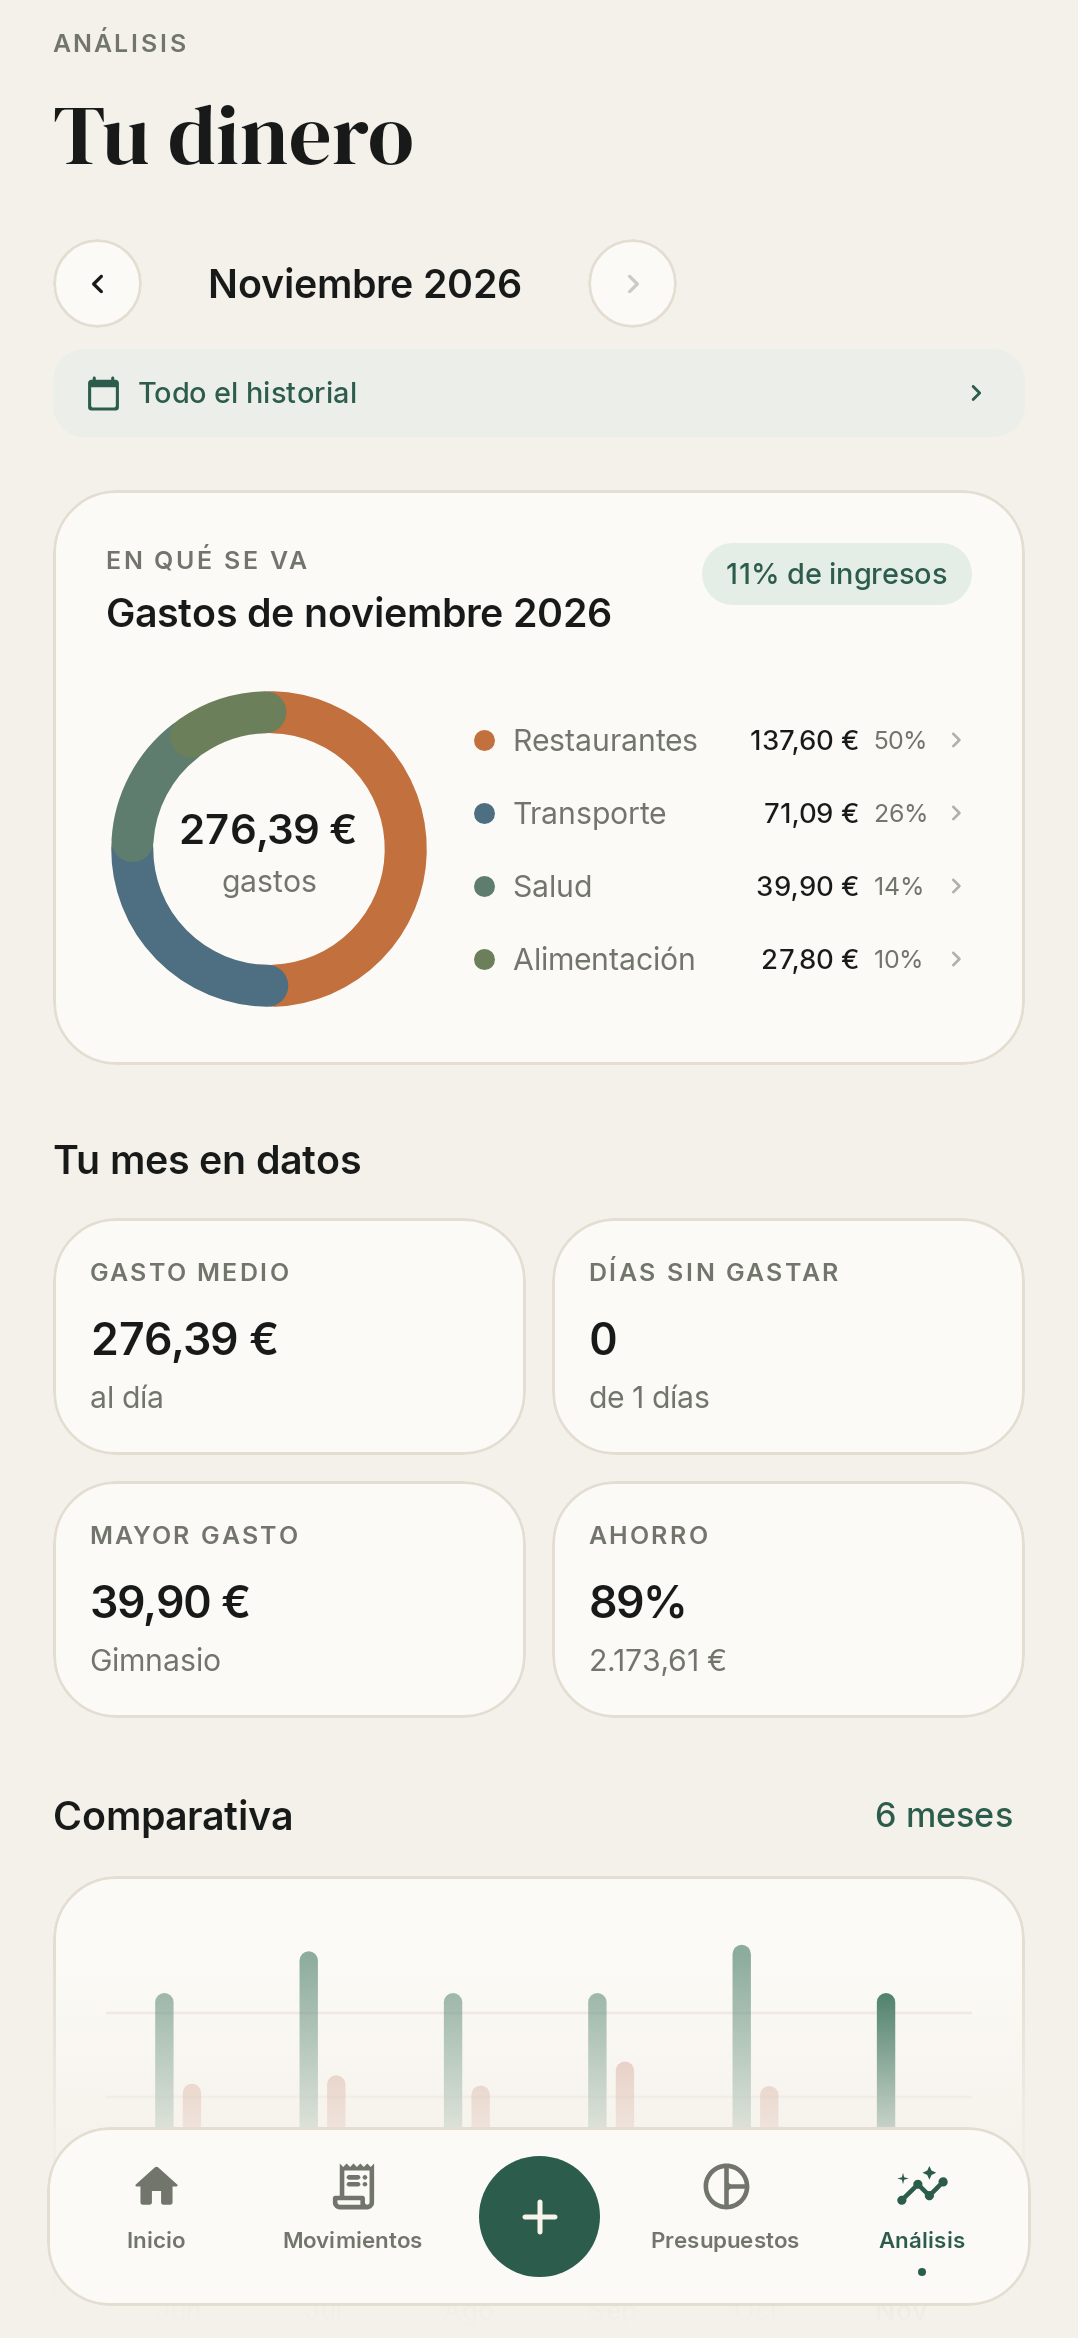
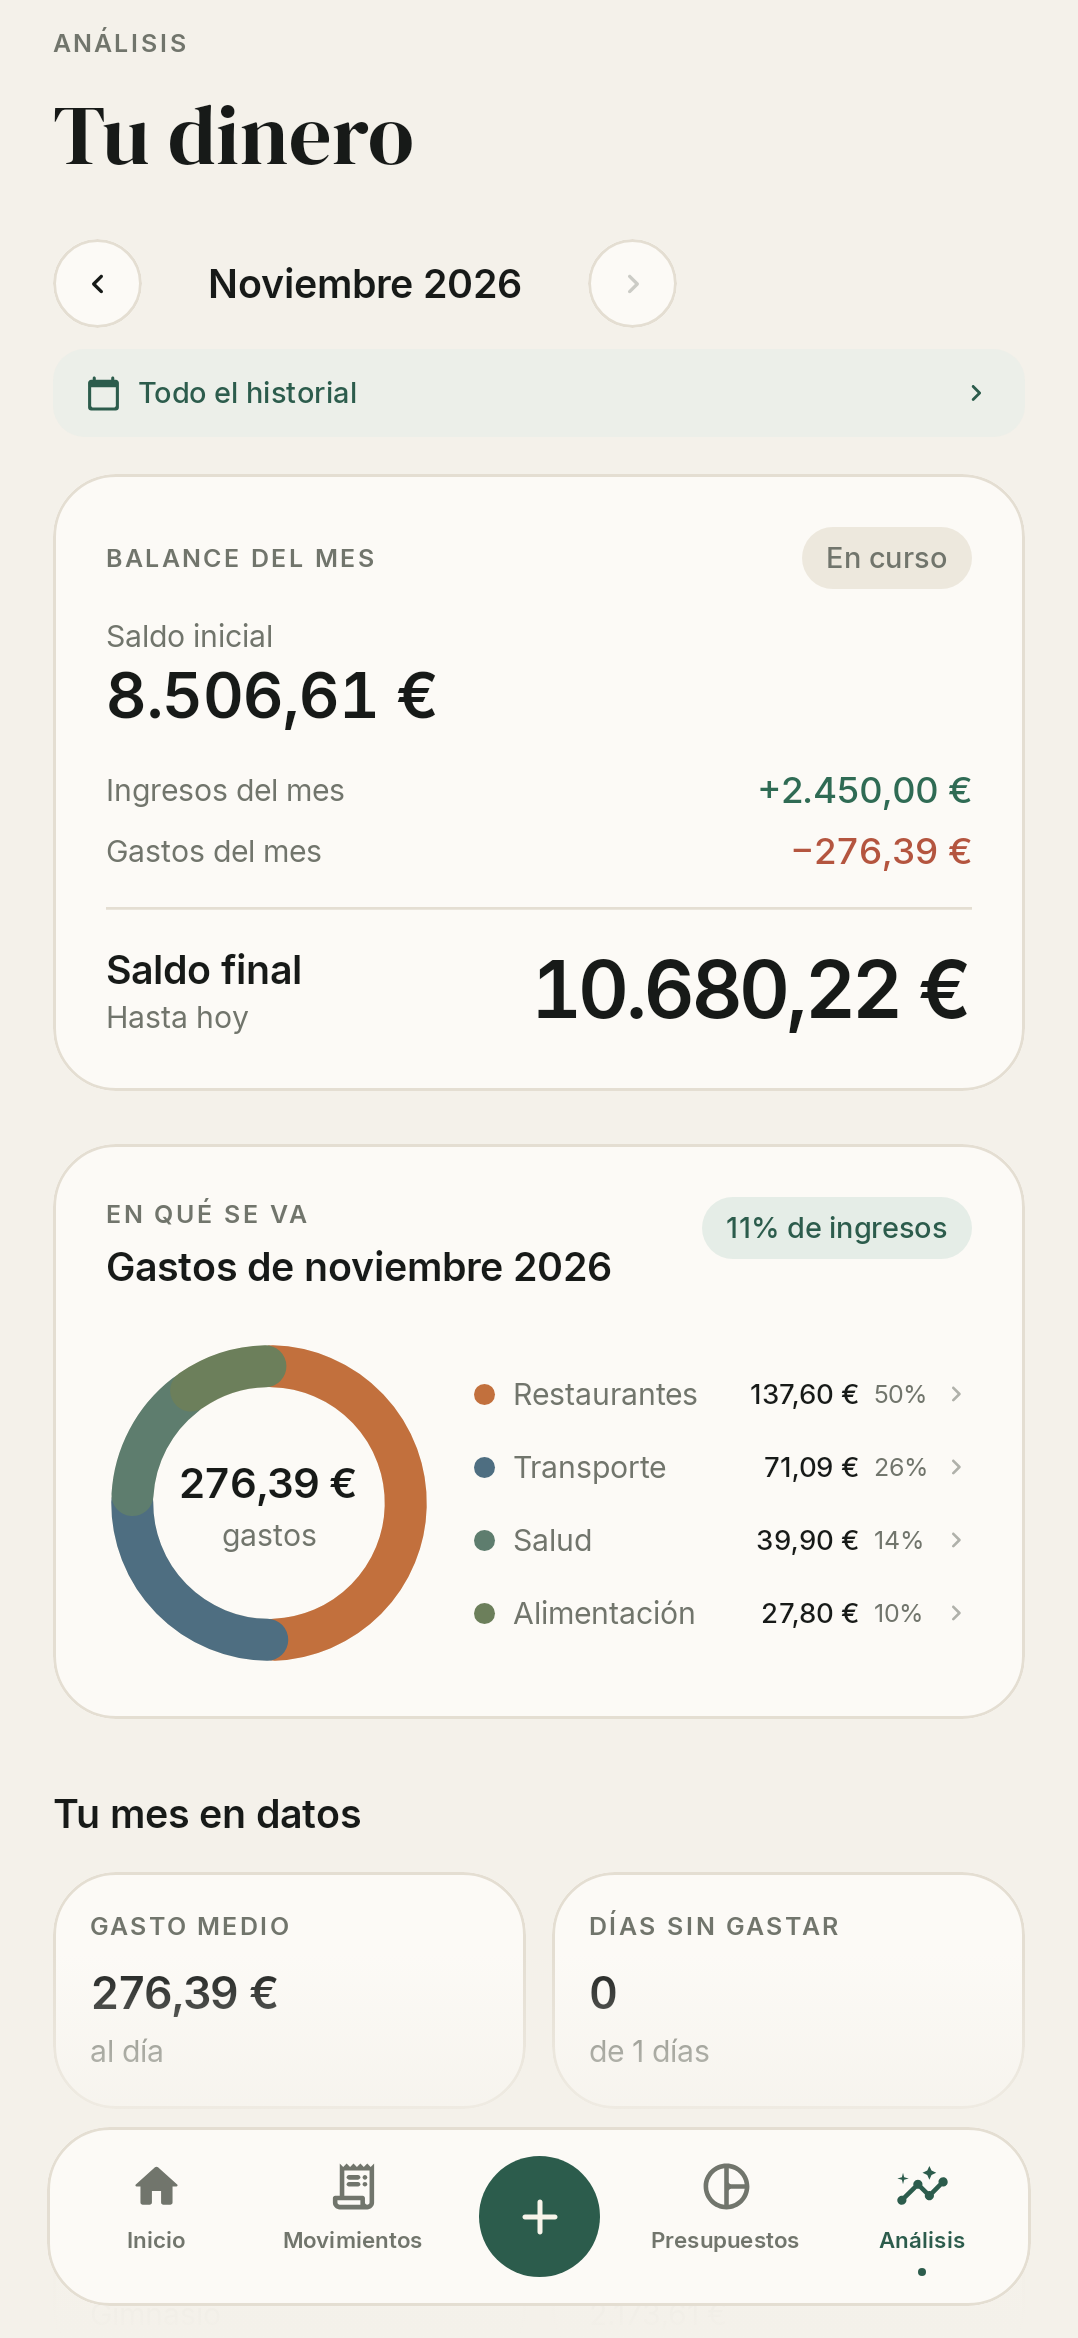
v0.5.1: balance inicial y final del mes en Analisis

diff --git a/app/src/main/java/com/budjet/app/ui/screens/AnalysisScreen.kt b/app/src/main/java/com/budjet/app/ui/screens/AnalysisScreen.kt
@@ -98,6 +98,11 @@ fun AnalysisScreen(
     }
     val futureCount = monthTx.size - postedTx.size
     val totals = remember(postedTx) { Finance.totals(postedTx) }
+    val monthTotalsFull = remember(data.transactions, month) {
+        Finance.totals(Finance.postedTransactionsOfMonth(data, month, today))
+    }
+    val initialBalance = remember(data, month) { Finance.initialBalance(data, month) }
+    val finalBalance = remember(data, month, today) { Finance.finalBalance(data, month, today) }
     val spends = remember(scopedData, month) { Finance.spendByCategory(scopedData, month) }
     val series = remember(scopedData, month) { Finance.series(scopedData, month, 6) }
     val average = remember(scopedData, month) { Finance.monthlyAverageExpense(scopedData, month, 3) }
@@ -185,6 +190,17 @@ fun AnalysisScreen(
                     modifier = Modifier.size(13.dp),
                 )
             }
+            Spacer(Modifier.height(14.dp))
+            MonthBalanceCard(
+                initial = initialBalance,
+                income = monthTotalsFull.income,
+                expense = monthTotalsFull.expense,
+                final = finalBalance,
+                month = month,
+                today = today,
+                currency = currency,
+                filterActive = startDate != null,
+            )
             Spacer(Modifier.height(20.dp))
         }
 
@@ -446,6 +462,125 @@ fun AnalysisScreen(
         ) {
             DatePicker(state = state, showModeToggle = false)
         }
+    }
+}
+
+@Composable
+private fun MonthBalanceCard(
+    initial: Long,
+    income: Long,
+    expense: Long,
+    final: Long,
+    month: YearMonth,
+    today: LocalDate,
+    currency: Currency,
+    filterActive: Boolean,
+) {
+    val colors = BudTheme.colors
+    val current = month == YearMonth.from(today)
+    BudCard {
+        Row(
+            modifier = Modifier.fillMaxWidth(),
+            horizontalArrangement = Arrangement.SpaceBetween,
+            verticalAlignment = Alignment.CenterVertically,
+        ) {
+            Overline("BALANCE DEL MES")
+            Pill(
+                text = if (current) "En curso" else "Cerrado",
+                container = colors.surfaceMuted,
+                content = colors.inkMuted,
+            )
+        }
+        Spacer(Modifier.height(10.dp))
+        Text(
+            text = "Saldo inicial",
+            style = MaterialTheme.typography.bodySmall,
+            color = colors.inkMuted,
+        )
+        Text(
+            text = formatMoney(initial, currency),
+            style = BudTheme.type.moneyMedium.copy(fontSize = 24.sp),
+            color = colors.ink,
+            maxLines = 1,
+        )
+        Spacer(Modifier.height(12.dp))
+        BalanceFlowRow(
+            label = "Ingresos del mes",
+            prefix = "+",
+            value = income,
+            color = colors.income,
+            currency = currency,
+        )
+        Spacer(Modifier.height(5.dp))
+        BalanceFlowRow(
+            label = "Gastos del mes",
+            prefix = "−",
+            value = expense,
+            color = colors.expense,
+            currency = currency,
+        )
+        Spacer(Modifier.height(12.dp))
+        androidx.compose.material3.HorizontalDivider(color = colors.line)
+        Spacer(Modifier.height(12.dp))
+        Row(
+            modifier = Modifier.fillMaxWidth(),
+            horizontalArrangement = Arrangement.SpaceBetween,
+            verticalAlignment = Alignment.Bottom,
+        ) {
+            Column {
+                Text(
+                    text = "Saldo final",
+                    style = MaterialTheme.typography.titleMedium,
+                    color = colors.ink,
+                )
+                Text(
+                    text = if (current) "Hasta hoy" else "Cierre del mes",
+                    style = MaterialTheme.typography.bodySmall,
+                    color = colors.inkMuted,
+                )
+            }
+            Text(
+                text = formatMoney(final, currency),
+                style = BudTheme.type.moneyLarge,
+                color = colors.ink,
+                maxLines = 1,
+            )
+        }
+        if (filterActive) {
+            Spacer(Modifier.height(10.dp))
+            Text(
+                text = "El saldo se calcula con todo el historial, no con el filtro de fechas.",
+                style = MaterialTheme.typography.bodySmall,
+                color = colors.inkMuted,
+            )
+        }
+    }
+}
+
+@Composable
+private fun BalanceFlowRow(
+    label: String,
+    prefix: String,
+    value: Long,
+    color: Color,
+    currency: Currency,
+) {
+    Row(
+        modifier = Modifier.fillMaxWidth(),
+        horizontalArrangement = Arrangement.SpaceBetween,
+        verticalAlignment = Alignment.CenterVertically,
+    ) {
+        Text(
+            text = label,
+            style = MaterialTheme.typography.bodySmall,
+            color = BudTheme.colors.inkMuted,
+        )
+        Text(
+            text = prefix + formatMoney(value, currency),
+            style = BudTheme.type.moneySmall,
+            color = color,
+            maxLines = 1,
+        )
     }
 }
 

diff --git a/app/src/test/java/com/budjet/app/FinanceTest.kt b/app/src/test/java/com/budjet/app/FinanceTest.kt
@@ -134,6 +134,37 @@ class FinanceTest {
     }
 
     @Test
+    fun `the month starts with what was left at the end of the previous month`() {
+        val november = YearMonth.of(2026, 11)
+        val app = data(
+            listOf(
+                tx("salary", 2_450_00, TxType.INCOME, LocalDate.of(2026, 10, 31)),
+                tx("rent", 850_00, TxType.EXPENSE, LocalDate.of(2026, 11, 2)),
+            ),
+        )
+        // Opening 1.000 € + salary on 31 Oct = 3.450 € carried into November.
+        assertEquals(3_450_00L, Finance.initialBalance(app, november))
+        assertEquals(2_600_00L, Finance.finalBalance(app, november, LocalDate.of(2026, 11, 30)))
+    }
+
+    @Test
+    fun `month balance is initial plus income minus expenses`() {
+        val november = YearMonth.of(2026, 11)
+        val today = LocalDate.of(2026, 11, 30)
+        val app = data(
+            listOf(
+                tx("1", 2_450_00, TxType.INCOME, LocalDate.of(2026, 10, 31)),
+                tx("2", 500_00, TxType.INCOME, LocalDate.of(2026, 11, 10)),
+                tx("3", 300_00, TxType.EXPENSE, LocalDate.of(2026, 11, 12)),
+            ),
+        )
+        val initial = Finance.initialBalance(app, november)
+        val monthTotals = Finance.totals(Finance.postedTransactionsOfMonth(app, november, today))
+        val final = Finance.finalBalance(app, november, today)
+        assertEquals(initial + monthTotals.income - monthTotals.expense, final)
+    }
+
+    @Test
     fun `savings rate is balance over income`() {
         val totals = Finance.totals(
             listOf(

diff --git a/app/src/main/java/com/budjet/app/data/Finance.kt b/app/src/main/java/com/budjet/app/data/Finance.kt
@@ -79,6 +79,16 @@ object Finance {
         }
     }
 
+    /** Money available at the start of [month], including anything earned the previous month. */
+    fun initialBalance(data: AppData, month: YearMonth): Long =
+        balanceAt(data, month.atDay(1).minusDays(1))
+
+    /** Closing balance for [month]; the current month stops at today so future entries do not count. */
+    fun finalBalance(data: AppData, month: YearMonth, today: LocalDate = LocalDate.now()): Long {
+        val end = month.atEndOfMonth()
+        return balanceAt(data, if (end.isAfter(today)) today else end)
+    }
+
     fun series(
         data: AppData,
         anchor: YearMonth,

diff --git a/app/src/main/java/com/budjet/app/ui/screens/SettingsScreen.kt b/app/src/main/java/com/budjet/app/ui/screens/SettingsScreen.kt
@@ -503,7 +503,7 @@ fun SettingsScreen(
                         }
                         Spacer(Modifier.height(4.dp))
                         Text(
-                            text = "Un lugar tranquilo para tu dinero. Versión 0.5.0 · boceto.",
+                            text = "Un lugar tranquilo para tu dinero. Versión 0.5.1 · boceto.",
                             style = MaterialTheme.typography.bodySmall,
                             color = colors.inkMuted,
                         )

diff --git a/README.md b/README.md
@@ -2,7 +2,7 @@
 
 Aplicación Android para llevar el control de tus gastos, ingresos, presupuestos y objetivos de ahorro. Diseño sobrio, cálido y editorial, con tres gamas de color.
 
-> Estado: **boceto funcional v0.5.0**. Datos locales, copia de seguridad, desbloqueo biométrico, saldo inicial editable, movimientos programados y análisis con rango histórico.
+> Estado: **boceto funcional v0.5.1**. Datos locales, copia de seguridad, desbloqueo biométrico, saldo inicial editable, movimientos programados y análisis con balance inicial del mes.
 
 | Resumen | Objetivos | Movimientos |
 |---|---|---|
@@ -45,6 +45,7 @@ Las categorías conservan sus colores en las tres gamas para no perder identidad
 - **Movimientos** — historial agrupado por día, filtros, búsqueda, edición y borrado con deshacer. Al buscar, el resumen de ingresos/gastos/balance se recalcula solo con los resultados.
 - **Presupuestos** — límite mensual general y por categoría, con ritmo de gasto diario.
 - **Análisis** — desglose por categorías, comparativa de 6 meses, estadísticas e ideas automáticas. Puedes fijar **desde qué fecha** empieza a contar el histórico.
+- **Balance del mes** — cada mes arranca con el saldo real del cierre anterior (aunque la nómina llegue el último día), suma ingresos, resta gastos y muestra el saldo final.
 - **Detalle de categoría** — toca un segmento del donut o su leyenda para ver la evolución, las métricas y los movimientos de esa categoría.
 - **Objetivos de ahorro** — metas, aportaciones/retiradas, progreso y sugerencia mensual. Es una “hucha virtual”.
 - **Movimientos recurrentes** — nómina, alquiler o suscripciones mensuales; se apuntan solos al abrir la app, se pueden pausar y editar.
@@ -81,7 +82,7 @@ Requiere JDK 17+ y Android SDK 37.
 
 ## Probar el boceto
 
-1. Instala `BudJet-0.5.0-boceto.apk` en un Android 8.0 o superior.
+1. Instala `BudJet-0.5.1-boceto.apk` en un Android 8.0 o superior.
 2. La app arranca con datos de ejemplo de los últimos 6 meses.
 3. Para empezar con todo a cero: **Ajustes → Datos → Empezar de cero**. El saldo total, ingresos, gastos, presupuestos, objetivos y recurrentes quedarán a 0. Si quieres registrar el dinero que ya tenías, cambia **Saldo inicial** en la misma pantalla.
 4. Prueba las gamas **Business / Navy / Boss** en **Ajustes → Apariencia**.
@@ -100,7 +101,7 @@ La APK de la raíz es una build *debug* firmada con la clave de desarrollo: sirv
 ./gradlew :app:lintDebug
 ```
 
-- **46 tests de lógica** — finanzas, movimientos futuros, fechas recordadas, recurrencias, objetivos, backup/importación, migraciones, filtros y biometría.
+- **48 tests de lógica** — finanzas, balance inicial/final, movimientos futuros, fechas recordadas, recurrencias, objetivos, backup/importación, migraciones, filtros y biometría.
 - **2 tests de captura** con Robolectric/Roborazzi que renderizan 24 pantallas.
 - **Lint: 0 errores**.
 
@@ -120,7 +121,7 @@ app/src/main/java/com/budjet/app/
 - Los movimientos futuros aparecen en la lista del mes en que caen y se marcan como “Programado”; no cuentan hasta su fecha.
 - Los objetivos son una asignación virtual: no mueven dinero entre cuentas ni descuentan del saldo.
 - **Anulación** conserva el gasto original y crea un ingreso vinculado por el mismo importe; el efecto neto es cero. No borra el gasto de la lista.
-- El rango histórico solo afecta a la pantalla de Análisis y al detalle de categoría abierto desde ella.
+- El rango histórico solo afecta a las gráficas de Análisis y al detalle de categoría; el bloque de balance del mes usa el saldo real completo.
 - La copia de seguridad **sustituye** todos los datos; todavía no hay fusión ni importación incremental.
 - El archivo de copia es un JSON legible, no cifrado: guárdalo en un lugar seguro.
 - El bloqueo biométrico está integrado y probado en JVM/UI; falta la firma en un dispositivo real.

diff --git a/docs/jira-created.md b/docs/jira-created.md
@@ -4,7 +4,7 @@
 - **URL:** https://jaxsullivan7.atlassian.net/jira/software/projects/BUD/summary
 - **Fecha:** 30 de octubre de 2026
 - **Resultado:** 5 épicas y 24 historias/tareas, todas con etiqueta `bud-jet` y épica padre.
-- **Estado local (v0.5.0):** BUD-20 implementado; BUD-26 endurecido y pendiente de validación en dispositivo real. Ver [`BIOMETRIC_TEST.md`](BIOMETRIC_TEST.md). Las gamas de color, el saldo inicial, los movimientos programados, las categorías nuevas y el rango histórico forman parte de v0.5.0.
+- **Estado local (v0.5.1):** BUD-20 implementado; BUD-26 endurecido y pendiente de validación en dispositivo real. Ver [`BIOMETRIC_TEST.md`](BIOMETRIC_TEST.md). Las gamas de color, el saldo inicial, los movimientos programados, las categorías nuevas, el rango histórico y el balance inicial del mes forman parte de v0.5.1.
 
 ## Épicas
 
